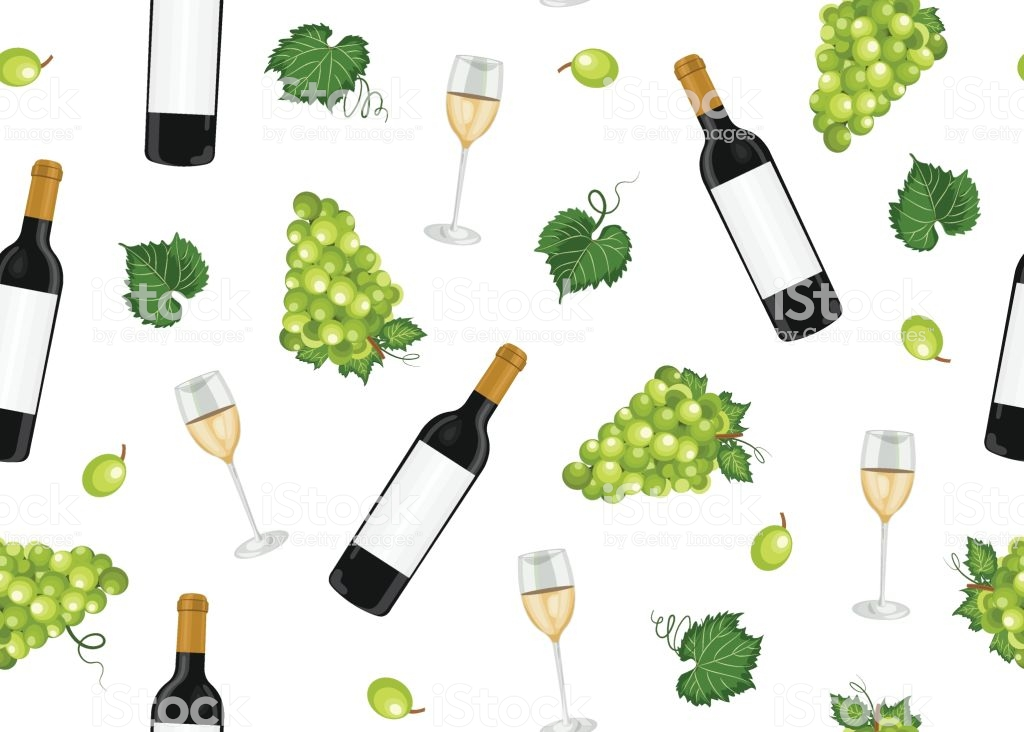
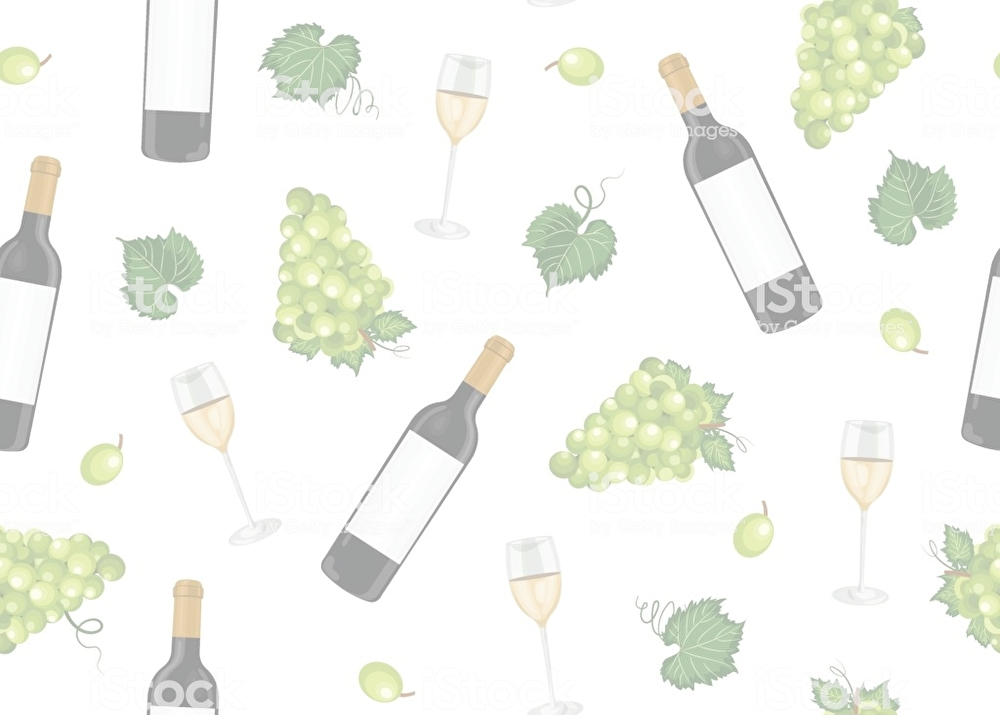
背景画像の変更

diff --git a/app/assets/stylesheets/custom.scss b/app/assets/stylesheets/custom.scss
@@ -479,7 +479,7 @@ input, textarea, select, .uneditable-input {
   min-height: 100vh;
   background-image: image-url("wines-index2.jpg");
   background-position: center center;
-  background-color:rgba(255,255,255,0.95);
+  background-color:rgba(255,255,255,0.8);
   background-blend-mode:lighten;
 }
 
